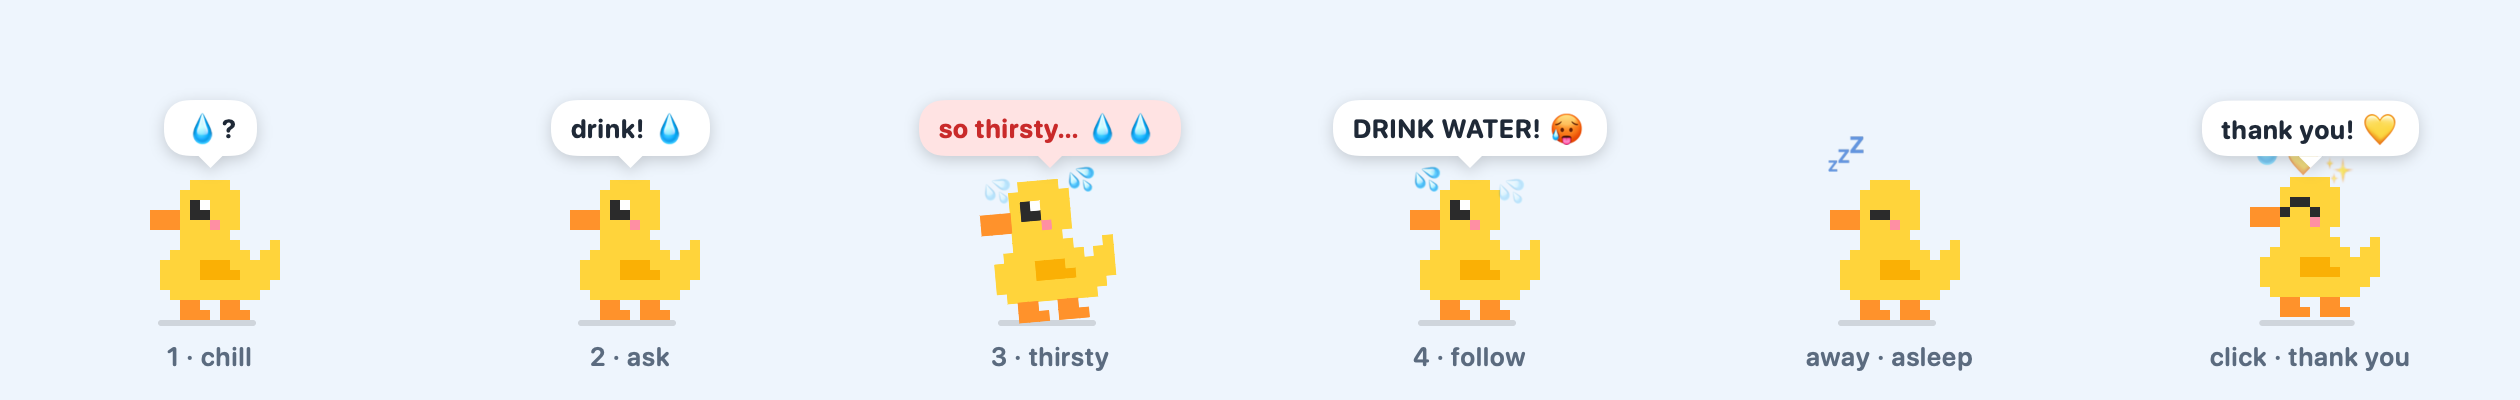
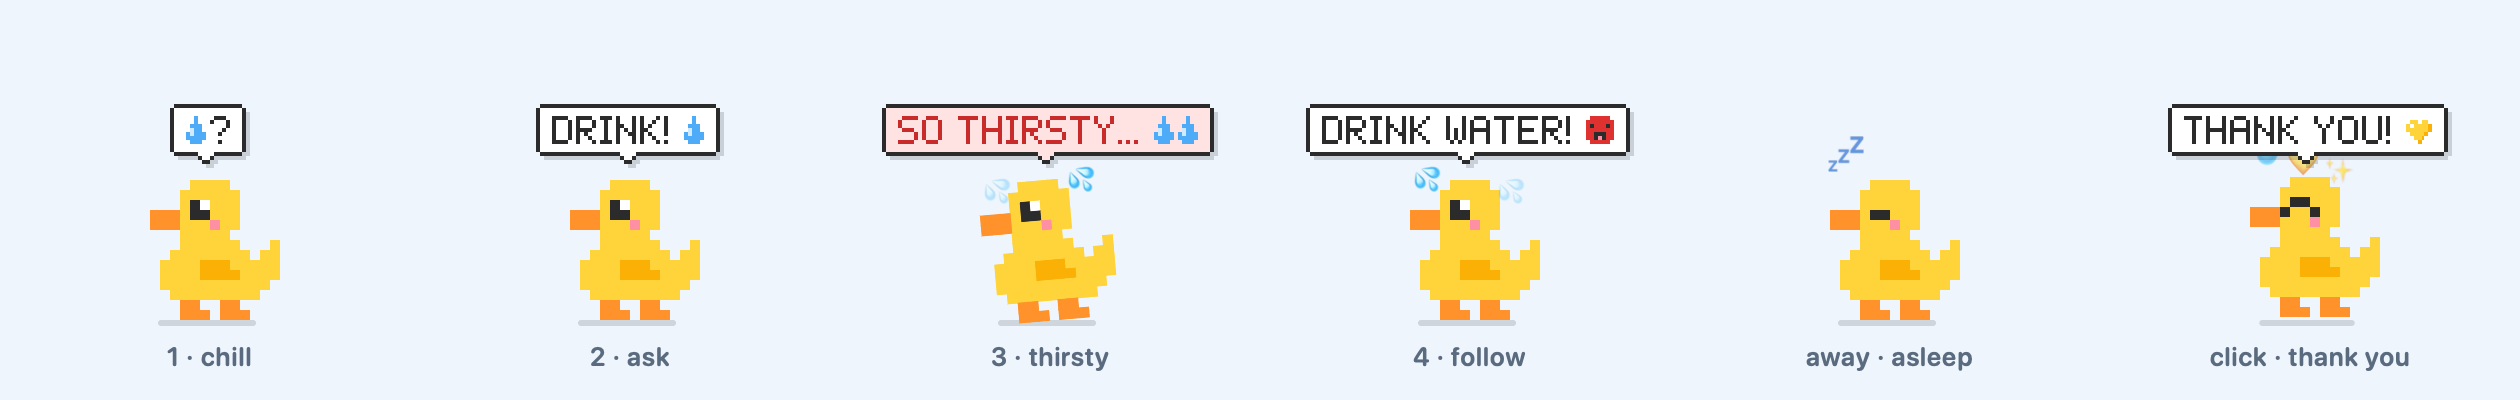
Show the pixel bubble in the spec and pictures

diff --git a/SPEC.md b/SPEC.md
@@ -51,7 +51,7 @@ Render crisp pixels (no smoothing). Pixel size about 5 pt, so the duck is about 
 
 Motion on top of the pixels (transforms of the whole sprite): walk bob (up 2 pt, small rock), hop (up about 14 pt and back), wiggle (rotate +-8 deg), shake (fast small x jitter).
 
-Speech bubble: white rounded rect above the head with a small tail, rounded bold system font about 13 pt, dark text. Thirst level 3 uses a light red bubble with red text. It pops in with a small spring scale.
+Speech bubble: all pixels, 2 pt each, as option A of the bubble design: a white box with a one-pixel `#2B2B2B` outline and its corners cut by one pixel, a two-row stepped tail under the middle, a black 15% shadow one pixel down and to the right, and the text 4 pixels in from the sides and 3 from the top and bottom. The text uses the pixel font in `PixelFont` (7 rows, variable width, a 1 pixel gap, lowercase drawn as uppercase), color `#2B2B2B`. Emoji and `…` are pixel icons in the same font, in fixed colors. Every character that a bubble can show has a glyph; a test checks this. DuckCore gets the bubble size from the font, so the hit test needs no text measuring. Thirst level 3 uses fill `#FFE3E3` with text `#C92A2A`. It pops in with a small spring scale around its bottom center. Each pixel snaps to whole points, also during the pop, so the bubble stays crisp at 1x and 2x.
 
 Small extras drawn in SwiftUI (emoji text is fine): sweat drops `💦` that fall from the head, `💤` while sleeping, `💧 💛 ✨` that float up on the happy click.
 
